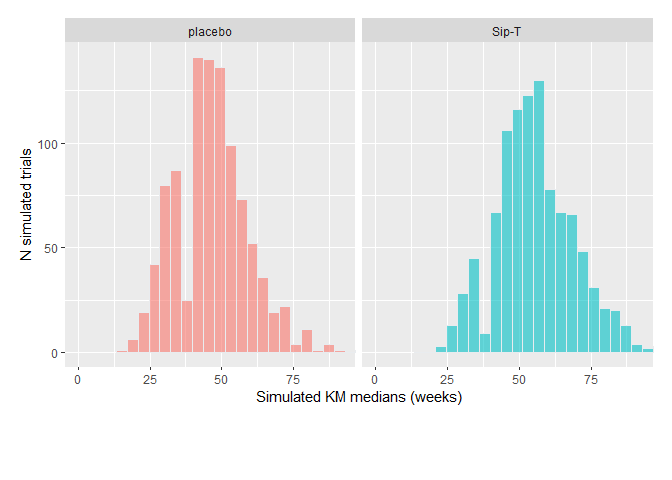
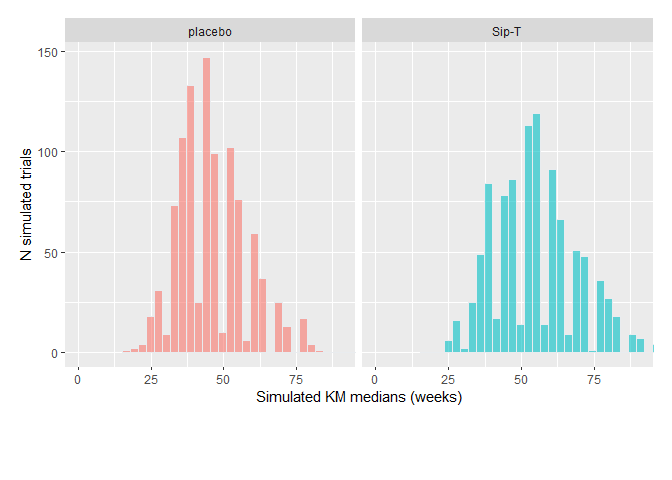
minor updates

diff --git a/README.md b/README.md
@@ -3,6 +3,11 @@
 
 # survTrial
 
+<!-- badges: start -->
+
+[![R-CMD-check](https://github.com/reevesj53/survTrial/workflows/R-CMD-check/badge.svg)](https://github.com/reevesj53/survTrial/actions)
+<!-- badges: end -->
+
 The goal of survTrial is to document simulation methods used within
 Bayer Medical Statistics Oncology. The current version of the package
 runs simulation scenarios for PFS, allowing for either:
@@ -60,6 +65,7 @@ forward to the next scheduled visit. Then run the simulation:
 ``` r
 sim <- trial_sim(schedule, enrol, rxrate, nevent, adjust=TRUE, trt=c("Sip-T","placebo"),death.prop=0.1,
 censor.prop=0.1,n.rep=1000)
+#> Joining, by = "rep"
 ```
 
 The function `sim.km()` extracts both the simulated values for KM median
@@ -73,28 +79,28 @@ sim.km
 #> # A tibble: 2,000 x 3
 #>      rep rx      median
 #>    <int> <chr>    <dbl>
-#>  1     1 placebo     56
-#>  2     1 Sip-T       68
-#>  3     2 placebo     44
-#>  4     2 Sip-T       52
-#>  5     3 placebo     40
-#>  6     3 Sip-T       56
-#>  7     4 placebo     44
-#>  8     4 Sip-T       48
-#>  9     5 placebo     24
-#> 10     5 Sip-T       56
+#>  1     1 placebo   51.4
+#>  2     1 Sip-T     76  
+#>  3     2 placebo   32  
+#>  4     2 Sip-T     24  
+#>  5     3 placebo   28  
+#>  6     3 Sip-T     60  
+#>  7     4 placebo   60  
+#>  8     4 Sip-T     52  
+#>  9     5 placebo   48  
+#> 10     5 Sip-T     72  
 #> # ... with 1,990 more rows
 #> 
 #> $median.quantile
 #> # A tibble: 6 x 4
 #>   rx      description KM_median quantile
 #>   <chr>   <chr>           <dbl>    <dbl>
-#> 1 placebo sim_low            24   0.0250
-#> 2 placebo sim_median         44   0.5   
-#> 3 placebo sim_high           72   0.975 
-#> 4 Sip-T   sim_low            32   0.0250
-#> 5 Sip-T   sim_median         52   0.5   
-#> 6 Sip-T   sim_high           84   0.975 
+#> 1 placebo sim_low          27.9   0.0250
+#> 2 placebo sim_median       44     0.5   
+#> 3 placebo sim_high         72     0.975 
+#> 4 Sip-T   sim_low          32     0.0250
+#> 5 Sip-T   sim_median       54.4   0.5   
+#> 6 Sip-T   sim_high         84     0.975 
 #> 
 #> attr(,"class")
 #> [1] "trialsim.km"
